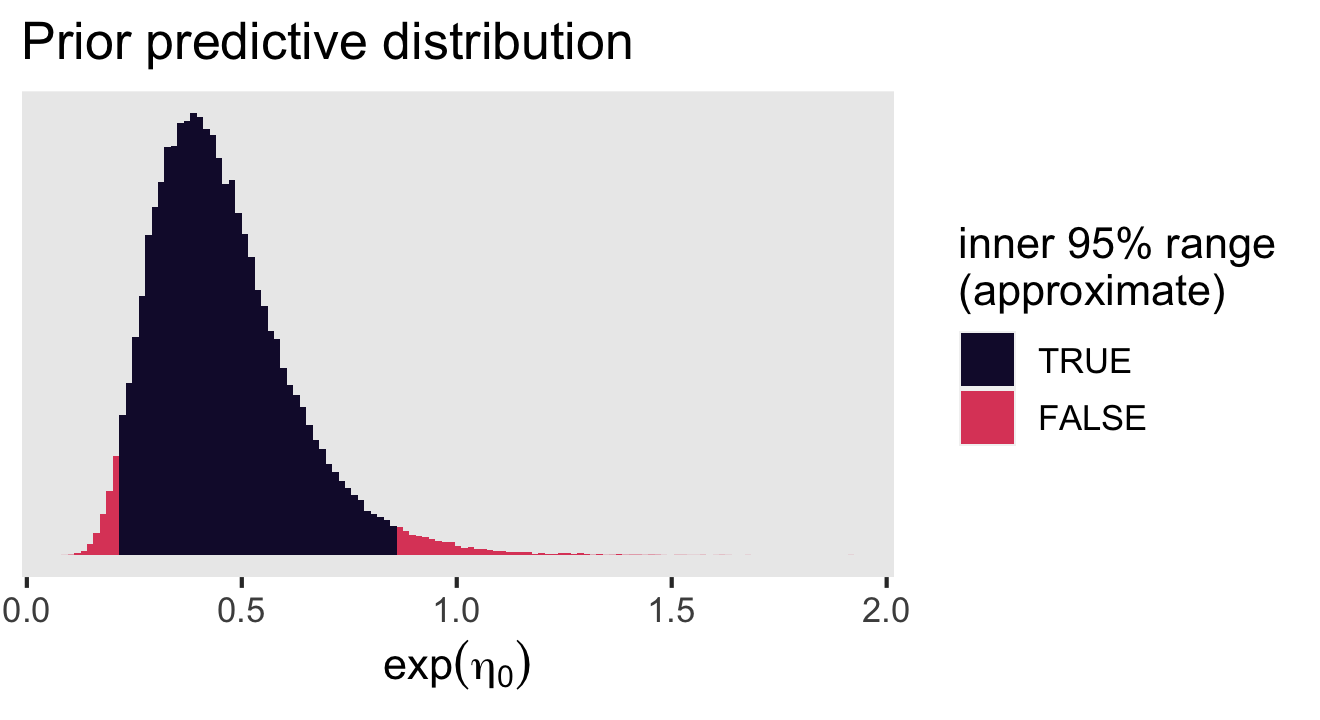
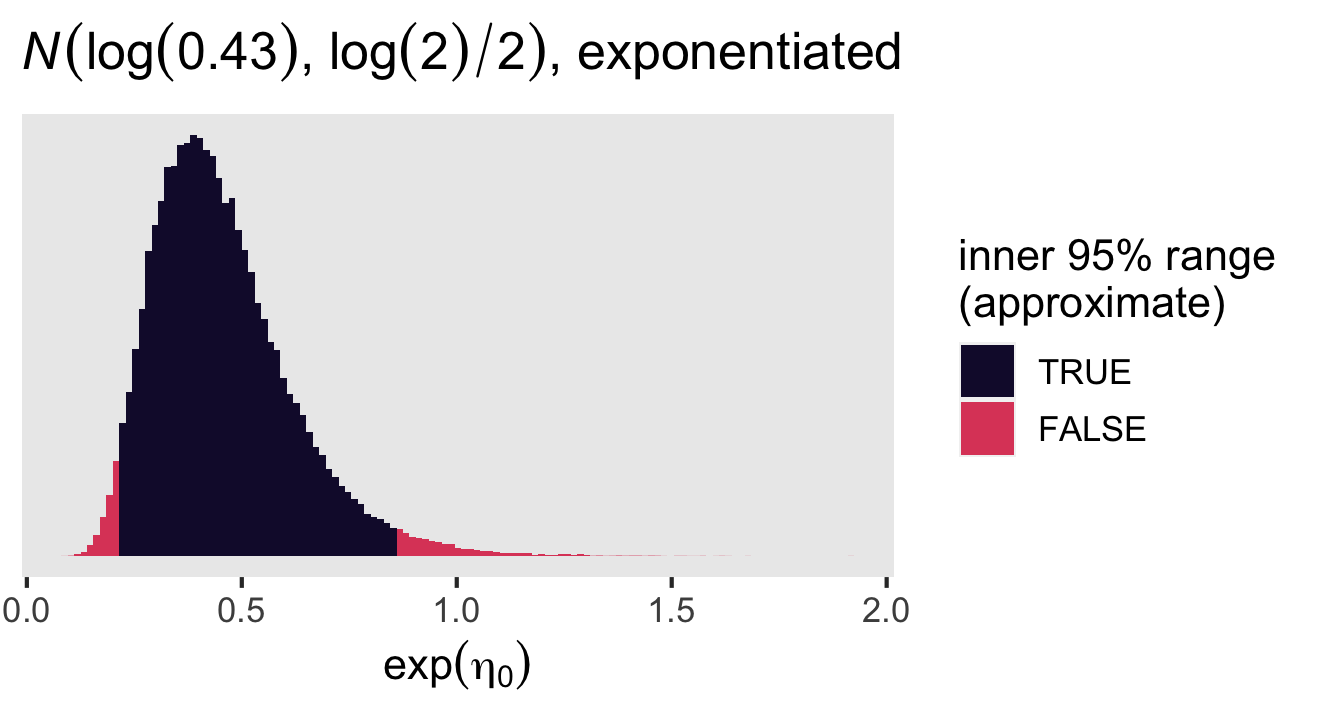
title fix thanks to @arthur-albuquerque

diff --git a/sketches/Lai-et-al--2016-,-vivid-counterstereotypic-scenario-versus-control.md b/sketches/Lai-et-al--2016-,-vivid-counterstereotypic-scenario-versus-control.md
@@ -1,7 +1,7 @@
 Lai et al (2016), vivid counterstereotypic scenario versus control
 ================
 A Solomon Kurz
-2022-07-08
+2022-07-12
 
 Load our primary packages.
 
@@ -888,7 +888,7 @@ tibble(prior = rnorm(n = 1e5, mean = log(0.43), sd = log(2) / 2)) %>%
   geom_histogram(binwidth = 0.015, boundary = 0.215) +
   scale_fill_viridis_d("inner 95% range\n(approximate)", option = "A", begin = .1, end = .6) +
   scale_y_continuous(NULL, breaks = NULL) +
-  labs(title = "Prior predictive distribution",
+  labs(title = expression(italic(N)(log(0.43)*', '*log(2)/2)*', exponentiated'),
        x = expression(exp(eta[0])))
 ```
 

diff --git a/sketches/Lai-et-al--2016-.md b/sketches/Lai-et-al--2016-.md
@@ -495,7 +495,7 @@ tibble(prior = rnorm(n = 1e5, mean = log(0.43), sd = log(2) / 2)) %>%
   geom_histogram(binwidth = 0.015, boundary = 0.215) +
   scale_fill_viridis_d("inner 95% range\n(approximate)", option = "A", begin = .1, end = .6) +
   scale_y_continuous(NULL, breaks = NULL) +
-  labs(title = "Prior predictive distribution",
+  labs(title = expression(italic(N)(log(0.43)*', '*log(2)/2)*', exponentiated'),
        x = expression(exp(eta[0])))
 ```
 
